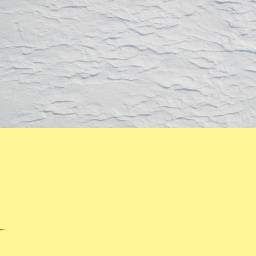
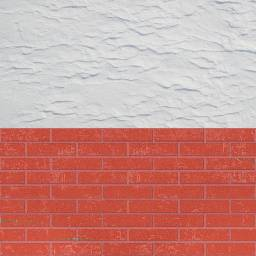
side column things

diff --git a/testscene.js b/testscene.js
@@ -179,7 +179,7 @@ const buildFrontEntrance = () => {
  ];
 
   return [
-    cube([0, 1.6, 4.25], [1.75, 0.225, 2.25], [0.15, 0.15, 0.15]),
+    cube([0, 1.6, 4.25], [1.75, 0.225, 2.25], [0.25, 0.25, 0.25]).texture('res/blackplastic.jpg'),
     ...buildFrontDoor(),
     ...buildSidePanels()
   ]
@@ -187,11 +187,6 @@ const buildFrontEntrance = () => {
 
 const buildSideEntrance = () => {
   const buildRamp = () => {
-    // v1-v2-v3
-  // v1-v3-v4-v5
-  // v1-v2-v6-v5
-  // v2-v3-v4-v6
-  // v5-v6-v4
     const customPrismTexelCoords = new Float32Array([ // We want a separate texture for the top face
       0, 0,  5, 0,  5, 0.5,
       4, 0.5,  4, 1,  0, 1,  0, 0.5,
@@ -201,13 +196,76 @@ const buildSideEntrance = () => {
     ]);
 
     return [
-      cube([1.8, 0.275, 4.5], [1.1, 0.2, 1], [0.75, 0.7, 0.7]).texture("res/redbrick.jpg", 4, 0.5),
-      prism([3.15, 0.275, 4.5], [-1.6, 0.2, 1], [0.7, 0.7, 0.7]).texture('res/ramp3.jpg').texelCoords(customPrismTexelCoords),
+      cube([2.1, 0.275, 4.5], [1.1, 0.2, 1], [0.75, 0.7, 0.7]).texture("res/redbrick.jpg", 4, 0.5),
+      prism([3.3, 0.275, 4.5], [-1.3, 0.2, 1], [0.7, 0.7, 0.7]).texture('res/ramp.jpg').texelCoords(customPrismTexelCoords),
+    ]
+  };
+
+  const buildRampDoor = () => [
+    cube([2.1, 0.975, 3.98], [0.6, 1.2, 0.05], [0.3, 0.3, 0.3]).texture('res/blackplastic.jpg').children([
+      cube([0.3, 0, 0], [0.08, 1.2, 0.075], [0, 0, 0]),
+      cube([-0.3, 0, 0], [0.08, 1.2, 0.075], [0, 0, 0]),
+      cube([0, 0.56, 0], [0.63, 0.08, 0.075], [0, 0, 0]),
+
+      cube([0.175, 0, 0.0405], [0.065, 0.20, 0.015], [0.7, 0.7, 0.7]).children([
+        cube([0, 0, 0], [0.03, 0.03, 0.15], [0.525, 0.525, 0.525]).children([
+          cube([-0.0225, 0, 0.09], [0.075, 0.03, 0.03], [0.525, 0.525, 0.525])
+        ])
+      ])
+    ])
+  ];
+
+  return [
+    ...buildRamp(),
+    ...buildRampDoor()
+  ]
+};
+
+const placeWindows = () => {
+  const placeWindow = (position) => 
+    cube(position, [0.55, 1, 0.05], [0.3, 0.3, 0.3]).texture('res/window.jpg')
+
+  return [
+    // Front of the building
+    placeWindow([-1.3, 1.1, 4]),
+    placeWindow([-2.0, 1.1, 4]),
+    placeWindow([-2.8, 1.1, 4]),
+    placeWindow([-3.6, 1.1, 4]),
+    placeWindow([2.7, 1.1, 4]),
+    placeWindow([3.5, 1.1, 4]),
+
+    placeWindow([0, 1.1, 4]).rotate(0, 90, 0)
+  ]
+};
+
+const sideColumns = () => {
+  const placeSideColumn = (position) => {
+    const children = [
+      prism([0, 0.05, 0], [0.05, 0.05, 1.55], [1, 0.8, 0.6]).texture('res/redbrick.jpg', 2, .15).rotate(90, 90, 0),
+      prism([0, -0.05, 0], [0.05, -0.05, 1.55], [1, 0.8, 0.6]).texture('res/redbrick.jpg', 2, .15).rotate(90, 90, 0),
+
+      cube([0, 0.975, 0], [0.05, 0.4, 0.05], [1, 0.7, 0.7]).texture('res/yellowsandstone.jpg').children([
+        prism([0, 0.05, 0], [0.05, 0.05, 0.4], [1, 0.7, 0.7]).texture('res/yellowsandstone.jpg', 2, .15).rotate(90, 90, 0),
+        prism([0, -0.05, 0], [0.05, -0.05, 0.4], [1, 0.7, 0.7]).texture('res/yellowsandstone.jpg', 2, .15).rotate(90, 90, 0),
+      ]),
+
+      cube([0, 1.325, 0], [0.125, 0.4, 0.10], [1, 0.7, 0.7]).children([
+        prism([0, .275, 0], [0.10, 0.15, 0.125], [1, 0.7, 0.7]).rotate(0, 90, 0),
+        cube([0, 0.1, 0.1625], [0.05, 0.125, 0.3], [0.1, 0.1, 0.1]),
+        cube([0, 0.825, 0.25], [0.05, 1.325, 0.125], [0.1, 0.1, 0.1]),        
+      ])
+    ];
+
+    const pos1 = position, pos2 = [position[0]+0.2, position[1], position[2]];
+
+    return [
+      cube(pos1, [0.05, 1.55, 0.05], [1, 0.8, 0.6]).texture('res/redbrick.jpg', 4, 1.75).children(children),
+      cube(pos2, [0.05, 1.55, 0.05], [1, 0.8, 0.6]).texture('res/redbrick.jpg', 4, 1.75).children(children)
     ]
   };
 
   return [
-    ...buildRamp()
+    ...placeSideColumn([1, 0.785, 4.025])
   ]
 };
 
@@ -216,7 +274,10 @@ const rowanHouse = () => {
     cube([0, 0, 0], [15, 0.35, 15], [0.5, 0.5, 0.5]).id("root").children([
       ...buildMainLayers(),
       ...buildFrontEntrance(),
-      ...buildSideEntrance()
+      ...buildSideEntrance(),
+
+      ...sideColumns()
+      // ...placeWindows()
     ])
   ];
 }
@@ -224,7 +285,7 @@ const rowanHouse = () => {
 const createScene = () => {
   const [scene, idObjects] = buildScene(document.getElementById('webpageCanvas'), rowanHouse());
 
-  scene.loadTextures(['res/redbrick.jpg', 'res/yellowsandstone.jpg', 'res/window.jpg', 'res/ramp.jpg', 'res/ramp3.jpg']);
+  scene.loadTextures(['res/redbrick.jpg', 'res/yellowsandstone.jpg', 'res/window.jpg', 'res/ramp.jpg', 'res/blackplastic.jpg']);
   
   makeModelMoveable(scene, idObjects);
 

diff --git a/pmgl.js b/pmgl.js
@@ -206,7 +206,6 @@ class Cube extends Shape {
 
   _textureCoords() {
     if (this._customTexelCoords) {
-      console.log("Using custom...");
       return this._customTexelCoords;
     }
 
@@ -279,7 +278,6 @@ class Prism extends Shape {
 
   _textureCoords() {
     if (this._customTexelCoords) {
-      console.log("using custom from prism");
       return this._customTexelCoords;
     }
     
@@ -489,7 +487,7 @@ const _calculateNormalMatrix = (modelMatrix) => {
 
 class Scene {
   constructor(canvas) {
-    this._backgroundColor = [0, 0, 0];
+    this._backgroundColor = [0.9, 0.9, .9];
 
     this._cameraPos = [0, 6, 22];
     this._lookAt = [0, 0, -10];
